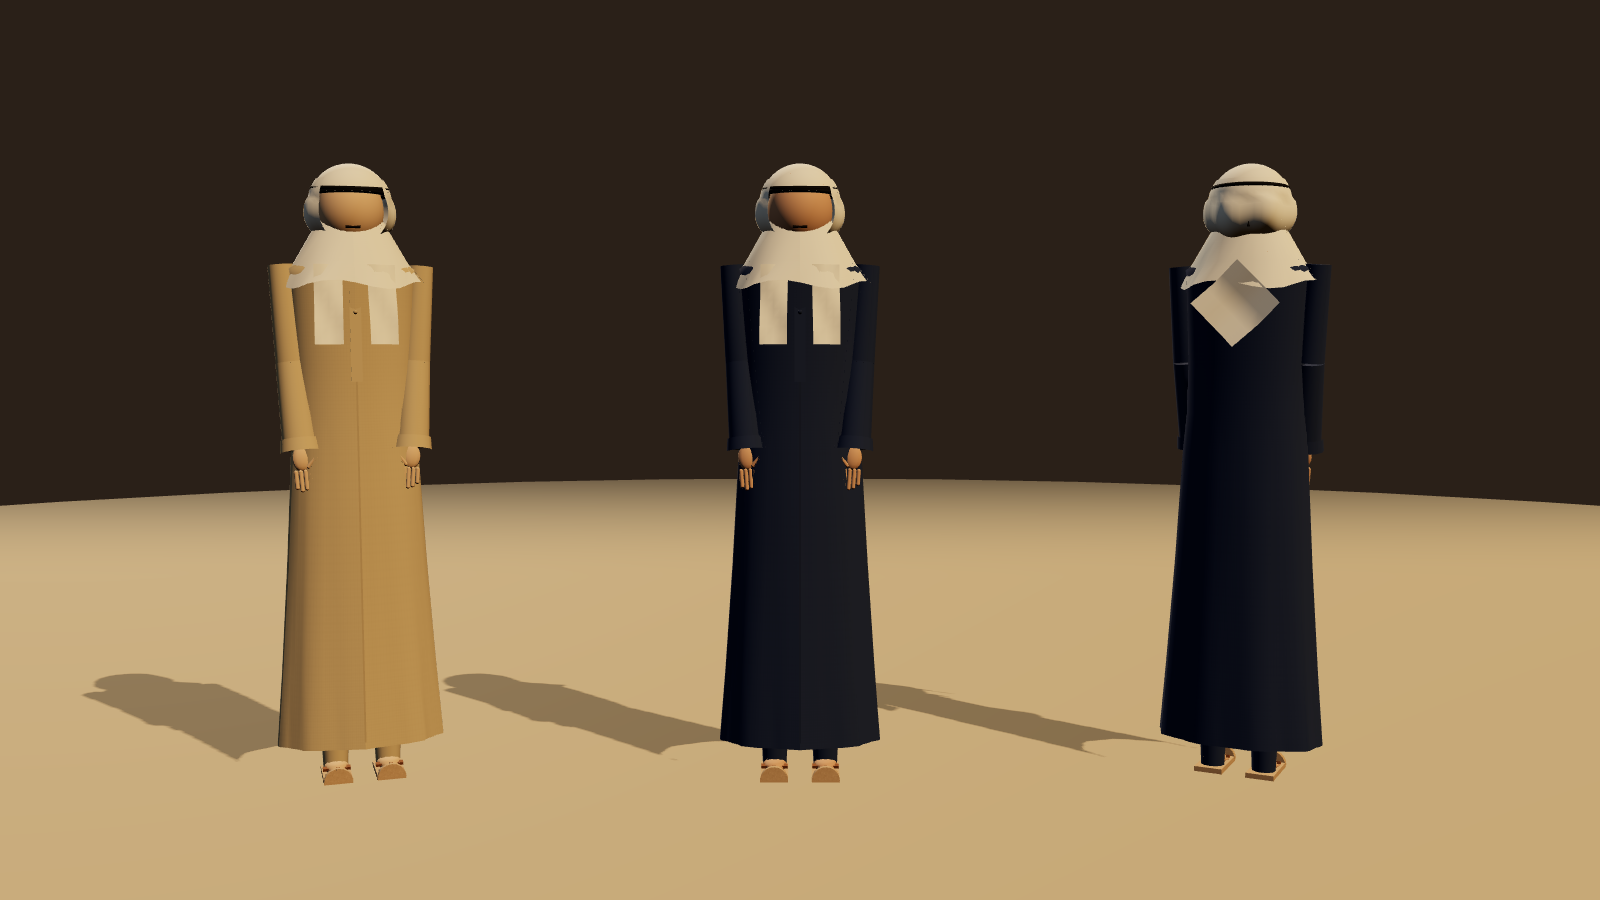
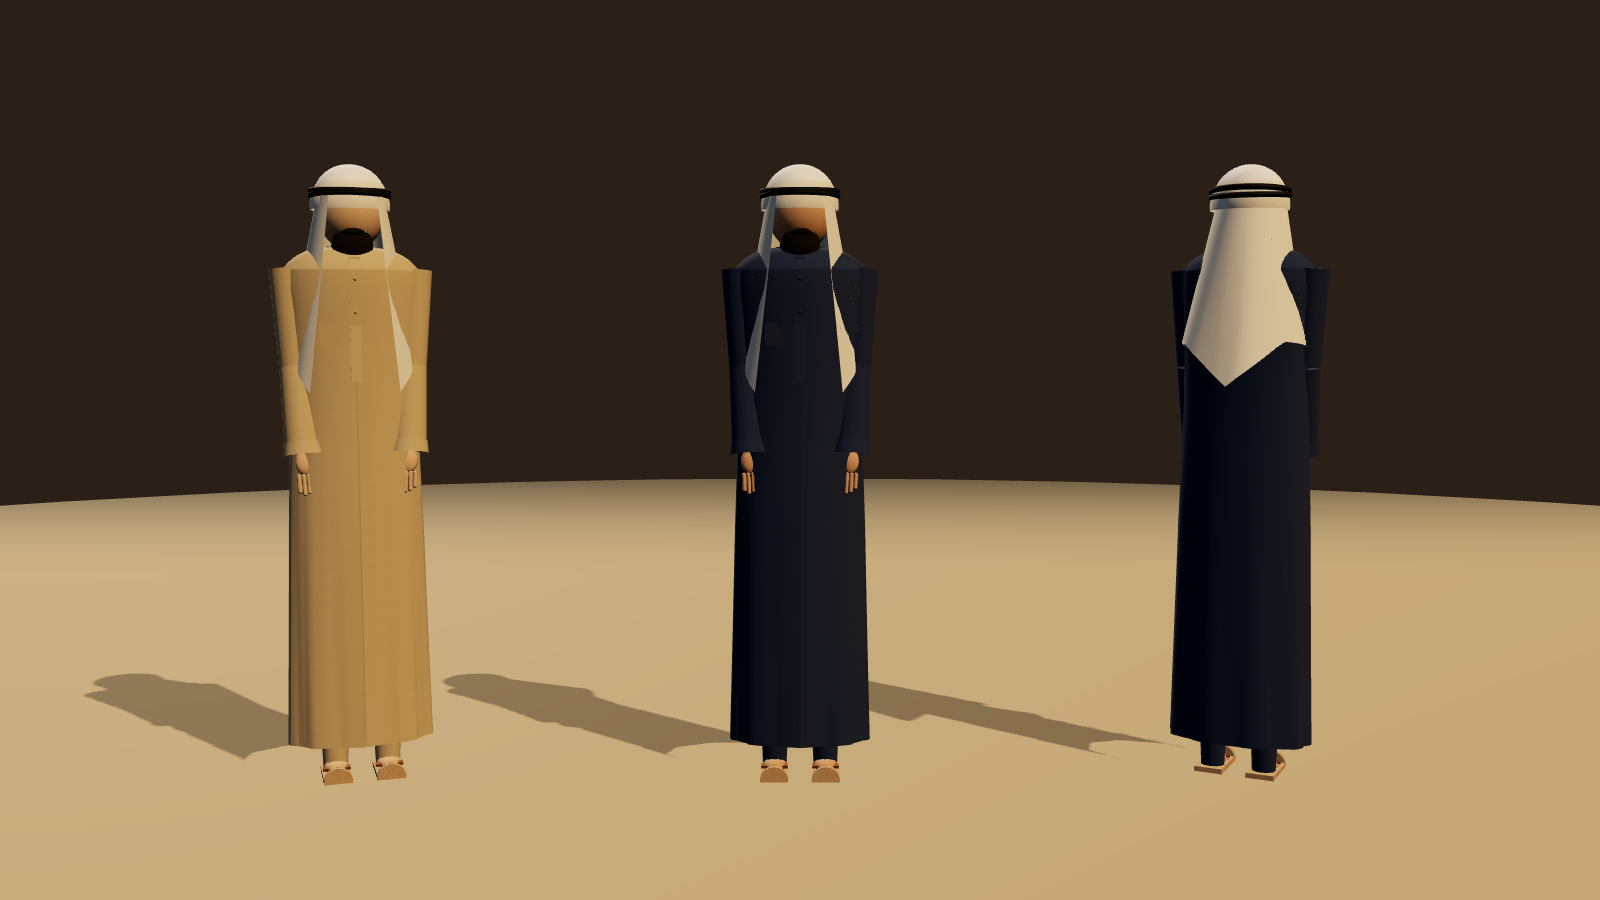
fix: personnage conforme à l'image de référence — épaules humaines, voile conique
- Épaules : arc convexe continu du deltoïde à la base du cou, la manche
  émerge de la pente (plus de cassure anguleuse ni de forme géométrique)
- Ghutra : voile en UNE pièce conique tombant de la tête, ouvert devant
  le visage, pointes plus basses devant et grand V pointu dans le dos
  (drapé exact de la référence), kufi dépassant au-dessus de l'agal
- Agal : double anneau noir épais
- Barbe longue et fournie au menton, visage (ovale peau) dégagé
- Qamis droit, bras le long du corps, mains aux cuisses
- Manches amples élargies vers la manchette

Claude-Session: https://claude.ai/code/session_01MjbPRkuJfPEz3DTwtsXfCE

diff --git a/rihla-prototype/js/entities/Character.js b/rihla-prototype/js/entities/Character.js
@@ -118,16 +118,17 @@ export class Character {
     const s = height / 1.75;
     this._s = s;
 
-    // Proportions humaines réelles (homme ~7,5 têtes).
+    // Proportions humaines réelles (homme ~7,5 têtes), qamis droit
+    // conforme à l'image de référence : épaules naturelles, chute droite.
     const M = {
       shoulderY: 1.445 * s,
-      shoulderW: 0.175 * s,   // demi-largeur d'épaules
+      shoulderW: 0.195 * s,   // demi-largeur d'épaules
       waistY: 1.02 * s,
       hipY: 0.92 * s,
       hemY: 0.10 * s,        // ourlet du qamis à la cheville
       headR: 0.098 * s,
       neckH: 0.05 * s,
-      flatten: 0.62,          // section elliptique du corps
+      flatten: 0.6,           // section elliptique du corps
     };
     this._M = M;
 
@@ -153,26 +154,39 @@ export class Character {
 
   // --- Qamis : lathe ample avec épaules tombantes + plis réels ------------
   _buildQamis(robeMat, robeColor, gender, M, s) {
+    // Chute droite comme sur la référence : largeur quasi constante des
+    // épaules à l'ourlet, très léger cintrage à la taille.
     const profile = [
-      [0.225 * s, M.hemY],
-      [0.21 * s, 0.30 * s],
-      [0.19 * s, 0.60 * s],
-      [0.172 * s, M.hipY],
-      [0.163 * s, M.waistY],
-      [0.162 * s, 1.16 * s],
-      [0.168 * s, 1.30 * s],
-      [0.172 * s, 1.385 * s],
-      [M.shoulderW, M.shoulderY - 0.025 * s],  // épaule
-      [0.115 * s, M.shoulderY + 0.012 * s],    // trapèzes
-      [0.062 * s, M.shoulderY + 0.03 * s],     // base du cou
+      [0.195 * s, M.hemY],
+      [0.19 * s, 0.35 * s],
+      [0.183 * s, 0.70 * s],
+      [0.176 * s, M.hipY],
+      [0.172 * s, M.waistY],
+      [0.174 * s, 1.18 * s],
+      [0.181 * s, 1.30 * s],
+      [0.187 * s, 1.365 * s],
     ].map(([r, y]) => new THREE.Vector2(r, y));
 
-    const geo = new THREE.LatheGeometry(profile, 48);
+    // Épaule HUMAINE : arc convexe continu du sommet du deltoïde jusqu'à
+    // la base du cou — pente tombante naturelle, aucune cassure.
+    const shoulderTipR = 0.185 * s;
+    const shoulderTipY = M.shoulderY - 0.03 * s;
+    const neckBaseY = M.shoulderY + 0.035 * s;
+    const neckR = 0.058 * s;
+    for (let i = 0; i <= 10; i++) {
+      const t = i / 10;
+      const r = neckR + (shoulderTipR - neckR) * Math.pow(Math.cos(t * Math.PI / 2), 0.85);
+      const y = shoulderTipY + (neckBaseY - shoulderTipY) * Math.pow(Math.sin(t * Math.PI / 2), 1.7);
+      profile.push(new THREE.Vector2(r, y));
+    }
+
+    const geo = new THREE.LatheGeometry(profile, 64);
     addVerticalFolds(geo, { foldCount: 9, amplitude: 0.007 * s, topY: M.waistY, bottomY: M.hemY });
     const qamis = new THREE.Mesh(geo, robeMat);
     qamis.scale.z = M.flatten;
     this.root.add(qamis);
     this.body = qamis;
+
 
     if (gender === 'male') {
       // Col officier + patte de boutonnage + boutons + coutures.
@@ -291,130 +305,81 @@ export class Character {
     this.head = headGroup;
   }
 
-  // --- Ghutra : dôme ondulé + pans drapés + V arrière + agal 3D -----------
+  // --- Ghutra conforme à l'image de référence : kufi brodé qui dépasse en
+  // haut, agal noir épais, tissu qui encadre le visage en V et tombe en
+  // longs pans triangulaires devant les épaules, grand triangle pointu
+  // dans le dos jusqu'au milieu du dos. -------------------------------------
   _buildGhutra(clothMat, M, s) {
     const headGroup = this.head;
     const headR = M.headR;
 
-    // Kufi blanc visible sous la ghutra.
-    const kufiMat = new THREE.MeshStandardMaterial({ color: 0xf5f2ea, map: fabricTexture(), roughness: 0.8 });
+    // Kufi blanc brodé : dépasse AU-DESSUS de l'agal (sommet visible).
+    const kufiMat = new THREE.MeshStandardMaterial({
+      color: 0xffffff,
+      map: fabricTexture(),
+      bumpMap: fabricTexture(),
+      bumpScale: 0.6,
+      roughness: 0.75,
+    });
     const kufi = new THREE.Mesh(
-      new THREE.SphereGeometry(headR * 0.88, 20, 12, 0, Math.PI * 2, 0, Math.PI * 0.42),
+      new THREE.SphereGeometry(headR * 1.04, 24, 12, 0, Math.PI * 2, 0, Math.PI * 0.34),
       kufiMat,
     );
-    kufi.position.y = headR * 0.34;
+    kufi.position.y = headR * 0.28;
     headGroup.add(kufi);
 
-    // Calotte de la ghutra : posée sur le crâne, le visage reste dégagé.
-    const capGeo = new THREE.SphereGeometry(headR * 1.12, 28, 12, 0, Math.PI * 2, 0, Math.PI * 0.42);
-    const cap = new THREE.Mesh(capGeo, clothMat);
-    cap.position.y = headR * 0.22;
-    headGroup.add(cap);
+    // Tissu de la ghutra sur le crâne : bande complète sous le kufi qui
+    // couvre le front — le visage (sans traits) commence sous le tissu.
+    const bandGeo = new THREE.SphereGeometry(headR * 1.1, 28, 10, 0, Math.PI * 2, Math.PI * 0.2, Math.PI * 0.34);
+    const band = new THREE.Mesh(bandGeo, clothMat);
+    band.position.y = headR * 0.16;
+    headGroup.add(band);
 
-    // Jupe de tissu : couvre uniquement les côtés et l'arrière de la tête,
-    // tombe vers les épaules avec un bord ondulé — le visage reste ouvert.
-    const skirtGeo = new THREE.SphereGeometry(headR * 1.16, 28, 14, 0, Math.PI * 1.44, Math.PI * 0.3, Math.PI * 0.52);
-    const sp = skirtGeo.attributes.position;
-    for (let i = 0; i < sp.count; i++) {
-      const y = sp.getY(i);
-      if (y < headR * 0.15) {
-        const x = sp.getX(i);
-        const z = sp.getZ(i);
-        const ang = Math.atan2(z, x);
-        const spread = 1 + (headR * 0.15 - y) / headR * 0.22;
-        const wave = 1 + Math.sin(ang * 6 + 0.4) * 0.05;
-        sp.setX(i, x * spread * wave);
-        sp.setZ(i, z * spread * wave);
-        sp.setY(i, y + Math.sin(ang * 4) * headR * 0.04);
-      }
-    }
-    skirtGeo.computeVertexNormals();
-    const skirt = new THREE.Mesh(skirtGeo, clothMat);
-    // La découpe (Math.PI*1.44) laisse une ouverture : on la tourne vers
-    // l'avant pour dégager le visage.
-    skirt.rotation.y = Math.PI / 2 + (Math.PI * 2 - Math.PI * 1.44) / 2;
-    skirt.position.y = headR * 0.2;
-    headGroup.add(skirt);
-
-    // Agal : véritable objet 3D indépendant — double anneau noir + cordons.
-    const agalGroup = new THREE.Group();
-    const agalMat = new THREE.MeshStandardMaterial({ color: 0x0d0a07, roughness: 0.5 });
-    for (const [ry, tilt] of [[headR * 0.62, 0.06], [headR * 0.48, -0.04]]) {
-      const ring = new THREE.Mesh(new THREE.TorusGeometry(headR * 1.02, headR * 0.07, 12, 36), agalMat);
+    // Agal : double anneau noir épais — objet 3D indépendant.
+    const agalMat = new THREE.MeshStandardMaterial({ color: 0x0c0906, roughness: 0.45 });
+    for (const [ry, tilt] of [[headR * 0.56, 0.05], [headR * 0.42, -0.035]]) {
+      const ring = new THREE.Mesh(new THREE.TorusGeometry(headR * 1.06, headR * 0.085, 12, 40), agalMat);
       ring.rotation.x = Math.PI / 2 + tilt;
       ring.position.y = ry;
-      agalGroup.add(ring);
+      headGroup.add(ring);
     }
-    // Cordons qui pendent à l'arrière de l'agal, terminés par des pompons.
-    for (const xSign of [-1, 1]) {
-      const cord = new THREE.Mesh(new THREE.CylinderGeometry(headR * 0.02, headR * 0.02, headR * 0.9, 6), agalMat);
-      cord.position.set(xSign * headR * 0.22, headR * 0.05, -headR * 0.95);
-      cord.rotation.x = 0.28;
-      agalGroup.add(cord);
-      const tassel = new THREE.Mesh(new THREE.ConeGeometry(headR * 0.05, headR * 0.14, 8), agalMat);
-      tassel.position.set(xSign * headR * 0.22, -headR * 0.42, -headR * 1.08);
-      agalGroup.add(tassel);
-    }
-    headGroup.add(agalGroup);
 
-    // Retombée sur les épaules (cape courte, section elliptique).
-    const drape = new THREE.Mesh(
-      new THREE.CylinderGeometry(0.082 * s, 0.19 * s, 0.19 * s, 28, 3, true),
-      clothMat,
+    // Voile de la ghutra : UNE seule pièce conique qui tombe de la tête
+    // jusqu'à la poitrine — ouverte devant le visage, pointes qui pendent
+    // plus bas devant les épaules et dans le dos (drapé de la référence).
+    const veilH = 0.42 * s;
+    const gap = Math.PI * 0.5; // ouverture faciale (90°), centrée devant
+    const veilGeo = new THREE.CylinderGeometry(
+      headR * 1.08, 0.2 * s, veilH, 36, 6, true,
+      gap / 2, Math.PI * 2 - gap,
     );
-    const drp = drape.geometry.attributes.position;
-    for (let i = 0; i < drp.count; i++) {
-      const y = drp.getY(i);
-      if (y < -0.05 * s) {
-        const x = drp.getX(i);
-        const z = drp.getZ(i);
-        const ang = Math.atan2(z, x);
-        const wave = 1 + Math.sin(ang * 6 + 1.1) * 0.05;
-        drp.setX(i, x * wave);
-        drp.setZ(i, z * wave);
-        drp.setY(i, y + Math.sin(ang * 4 + 0.4) * 0.012 * s);
-      }
+    const vp = veilGeo.attributes.position;
+    const vHalf = veilH / 2;
+    for (let i = 0; i < vp.count; i++) {
+      const x = vp.getX(i);
+      const y = vp.getY(i);
+      const z = vp.getZ(i);
+      const ang = Math.atan2(x, z); // 0 = devant (+z)
+      const t = (vHalf - y) / veilH; // 0 haut → 1 bas
+      // Les bords libres de l'ouverture (devant) et l'axe arrière pendent
+      // plus bas : pointes du tissu.
+      const edgeDist = Math.min(Math.abs(ang - gap / 2), Math.abs(ang + gap / 2));
+      const frontPoint = Math.max(0, 1 - edgeDist / 0.7) * 0.11 * s;
+      const backPoint = Math.max(0, 1 - Math.abs(Math.abs(ang) - Math.PI) / 0.9) * 0.13 * s;
+      vp.setY(i, y - (frontPoint + backPoint) * t);
+      // Ondulation légère du tissu.
+      const wave = 1 + Math.sin(ang * 6 + 0.5) * 0.03 * t;
+      vp.setX(i, x * wave);
+      vp.setZ(i, z * wave);
     }
-    drape.geometry.computeVertexNormals();
-    drape.scale.z = 0.74;
-    drape.position.y = M.shoulderY + 0.03 * s;
-    this.root.add(drape);
-
-    // Deux pans qui tombent sur la poitrine (strips incurvés, bord libre),
-    // décollés du torse pour ne jamais traverser le tissu du qamis.
-    for (const xSign of [-1, 1]) {
-      const panGeo = new THREE.PlaneGeometry(0.075 * s, 0.22 * s, 4, 9);
-      const pp = panGeo.attributes.position;
-      for (let i = 0; i < pp.count; i++) {
-        const y = pp.getY(i);
-        const x = pp.getX(i);
-        const t = (0.11 * s - y) / (0.22 * s); // 0 en haut, 1 en bas
-        // Le pan s'écarte du corps en tombant + ondulation du bord.
-        pp.setZ(i, t * 0.028 * s + Math.sin(x * 70 + y * 30) * 0.004 * s);
-      }
-      panGeo.computeVertexNormals();
-      const pan = new THREE.Mesh(panGeo, clothMat);
-      pan.position.set(xSign * 0.07 * s, M.shoulderY - 0.12 * s, 0.118 * s);
-      pan.rotation.y = xSign * 0.1;
-      pan.rotation.x = -0.08;
-      this.root.add(pan);
-    }
-
-    // Pointe arrière en V, bombée vers l'extérieur (jamais dans le dos).
-    const backGeo = new THREE.PlaneGeometry(0.17 * s, 0.17 * s, 6, 6);
-    const bp = backGeo.attributes.position;
-    for (let i = 0; i < bp.count; i++) {
-      const x = bp.getX(i);
-      const y = bp.getY(i);
-      bp.setZ(i, -((Math.abs(x) + Math.abs(y)) * 0.16) - Math.sin(x * 40) * 0.003 * s);
-    }
-    backGeo.computeVertexNormals();
-    const backDrape = new THREE.Mesh(backGeo, clothMat);
-    backDrape.position.set(0, M.shoulderY - 0.12 * s, -0.128 * s);
-    backDrape.rotation.z = Math.PI / 4;
-    backDrape.rotation.x = 0.14;
-    this.root.add(backDrape);
-    this._backDrape = backDrape;
+    veilGeo.computeVertexNormals();
+    const veil = new THREE.Mesh(veilGeo, clothMat);
+    // Section elliptique : étroit sur les côtés (les bras restent libres),
+    // profond devant/derrière pour les pointes.
+    veil.scale.set(0.85, 1, 1);
+    veil.position.y = -vHalf + headR * 0.45;
+    headGroup.add(veil);
+    this._backDrape = veil;
   }
 
   _buildKufi(accentMat, M, s) {
@@ -466,28 +431,34 @@ export class Character {
     this.root.add(cape);
   }
 
-  // --- Barbe discrète et naturelle (menton/mâchoire) ----------------------
+  // --- Barbe longue et fournie (conforme à l'image de référence) ----------
   _buildBeard(M, s) {
     const headR = M.headR;
     const beardMat = new THREE.MeshStandardMaterial({
-      color: 0x241a12,
+      color: 0x1e150e,
       roughness: 0.98,
       bumpMap: fabricTexture(),
-      bumpScale: 0.5,
+      bumpScale: 0.7,
     });
-    const beard = new THREE.Mesh(new THREE.SphereGeometry(headR * 0.58, 18, 14), beardMat);
-    beard.position.set(0, -headR * 0.88, headR * 0.42);
-    beard.scale.set(1.08, 1.15, 0.7);
+
+    // Masse principale : devant les joues et le menton, en RELIEF sur le
+    // visage (jamais enfoncée dedans).
+    const beard = new THREE.Mesh(new THREE.SphereGeometry(headR * 0.6, 20, 16), beardMat);
+    beard.position.set(0, -headR * 1.0, headR * 0.45);
+    beard.scale.set(0.95, 1.15, 0.8);
     this.head.add(beard);
 
-    const beardTip = new THREE.Mesh(new THREE.ConeGeometry(headR * 0.3, headR * 0.5, 12), beardMat);
-    beardTip.position.set(0, -headR * 1.55, headR * 0.44);
-    beardTip.rotation.x = Math.PI;
-    this.head.add(beardTip);
+    // Longueur : la barbe descend en s'arrondissant jusqu'au haut de la
+    // poitrine, légèrement plus étroite en bas.
+    const beardLow = new THREE.Mesh(new THREE.SphereGeometry(headR * 0.46, 18, 14), beardMat);
+    beardLow.position.set(0, -headR * 1.75, headR * 0.42);
+    beardLow.scale.set(0.8, 1.05, 0.65);
+    this.head.add(beardLow);
 
-    const mustache = new THREE.Mesh(new THREE.CylinderGeometry(headR * 0.045, headR * 0.045, headR * 0.4, 8), beardMat);
-    mustache.rotation.z = Math.PI / 2;
-    mustache.position.set(0, -headR * 0.48, headR * 0.85);
+    // Moustache au-dessus de la masse.
+    const mustache = new THREE.Mesh(new THREE.SphereGeometry(headR * 0.28, 12, 8), beardMat);
+    mustache.position.set(0, -headR * 0.62, headR * 0.82);
+    mustache.scale.set(1.15, 0.4, 0.5);
     this.head.add(mustache);
   }
 
@@ -496,9 +467,11 @@ export class Character {
     const upperLen = 0.27 * s;
     const foreLen = 0.24 * s;
 
-    const upperGeo = new THREE.CylinderGeometry(0.036 * s, 0.042 * s, upperLen, 14);
+    // Manches amples : larges à la racine (elles émergent de la pente de
+    // l'épaule) et s'élargissant doucement vers la manchette.
+    const upperGeo = new THREE.CylinderGeometry(0.052 * s, 0.046 * s, upperLen, 14);
     upperGeo.translate(0, -upperLen / 2, 0);
-    const foreGeo = new THREE.CylinderGeometry(0.042 * s, 0.048 * s, foreLen, 14);
+    const foreGeo = new THREE.CylinderGeometry(0.046 * s, 0.05 * s, foreLen, 14);
     foreGeo.translate(0, -foreLen / 2, 0);
 
     const buildHand = (xSign) => {
@@ -525,8 +498,8 @@ export class Character {
     };
 
     const buildArm = (xSign) => {
-      const arm = new THREE.Group(); // pivot épaule
-      arm.position.set(xSign * (M.shoulderW + 0.012 * s), M.shoulderY - 0.01 * s, 0);
+      const arm = new THREE.Group(); // pivot sous l'épaule, manche dans la pente
+      arm.position.set(xSign * 0.168 * s, M.shoulderY - 0.02 * s, 0);
 
       const upper = new THREE.Mesh(upperGeo.clone(), robeMat);
       arm.add(upper);
@@ -557,11 +530,13 @@ export class Character {
     this.armR = buildArm(1);
     this.root.add(this.armL, this.armR);
 
+    // Bras le long du corps, mains près des cuisses (référence).
     this._restArmRot = -0.04;
+    this._restArmZ = 0.055;
     this.armL.rotation.x = this._restArmRot;
     this.armR.rotation.x = this._restArmRot;
-    this.armL.rotation.z = 0.075;
-    this.armR.rotation.z = -0.075;
+    this.armL.rotation.z = this._restArmZ;
+    this.armR.rotation.z = -this._restArmZ;
   }
 
   // --- API publique (inchangée pour Player/NPC/scènes) --------------------
@@ -611,7 +586,7 @@ export class Character {
 
       // Main droite sur le cœur, coude plié, tête légèrement inclinée.
       this.armR.rotation.x = this._restArmRot - k * 0.75;
-      this.armR.rotation.z = -0.075 - k * 0.35;
+      this.armR.rotation.z = -this._restArmZ - k * 0.3;
       this.armR.userData.elbow.rotation.x = -0.14 - k * 1.45;
       this.head.rotation.x = k * 0.14;
       this.body.rotation.x = k * 0.045;
@@ -627,7 +602,7 @@ export class Character {
       this._gestureTimer += dt;
       const wave = Math.sin(this._gestureTimer * 3.0) * 0.3;
       this.armR.rotation.x = this._restArmRot - 0.9 + wave * 0.25;
-      this.armR.rotation.z = -0.075 - 0.3 - wave * 0.15;
+      this.armR.rotation.z = -this._restArmZ - 0.3 - wave * 0.15;
       this.armR.userData.elbow.rotation.x = -0.5 + wave * 0.2;
       this.head.rotation.y = Math.sin(this._gestureTimer * 1.1) * 0.12;
       if (this._gestureTimer >= this._gestureDuration) {
@@ -660,8 +635,8 @@ export class Character {
       this.body.scale.y = 1 + breathe;
       this.armL.rotation.x += (this._restArmRot - this.armL.rotation.x) * Math.min(1, 8 * dt);
       this.armR.rotation.x += (this._restArmRot - this.armR.rotation.x) * Math.min(1, 8 * dt);
-      this.armL.rotation.z += (0.075 - this.armL.rotation.z) * Math.min(1, 8 * dt);
-      this.armR.rotation.z += (-0.075 - this.armR.rotation.z) * Math.min(1, 8 * dt);
+      this.armL.rotation.z += (this._restArmZ - this.armL.rotation.z) * Math.min(1, 8 * dt);
+      this.armR.rotation.z += (-this._restArmZ - this.armR.rotation.z) * Math.min(1, 8 * dt);
       this.legL.rotation.x *= 0.88;
       this.legR.rotation.x *= 0.88;
       this.root.position.y = 0;